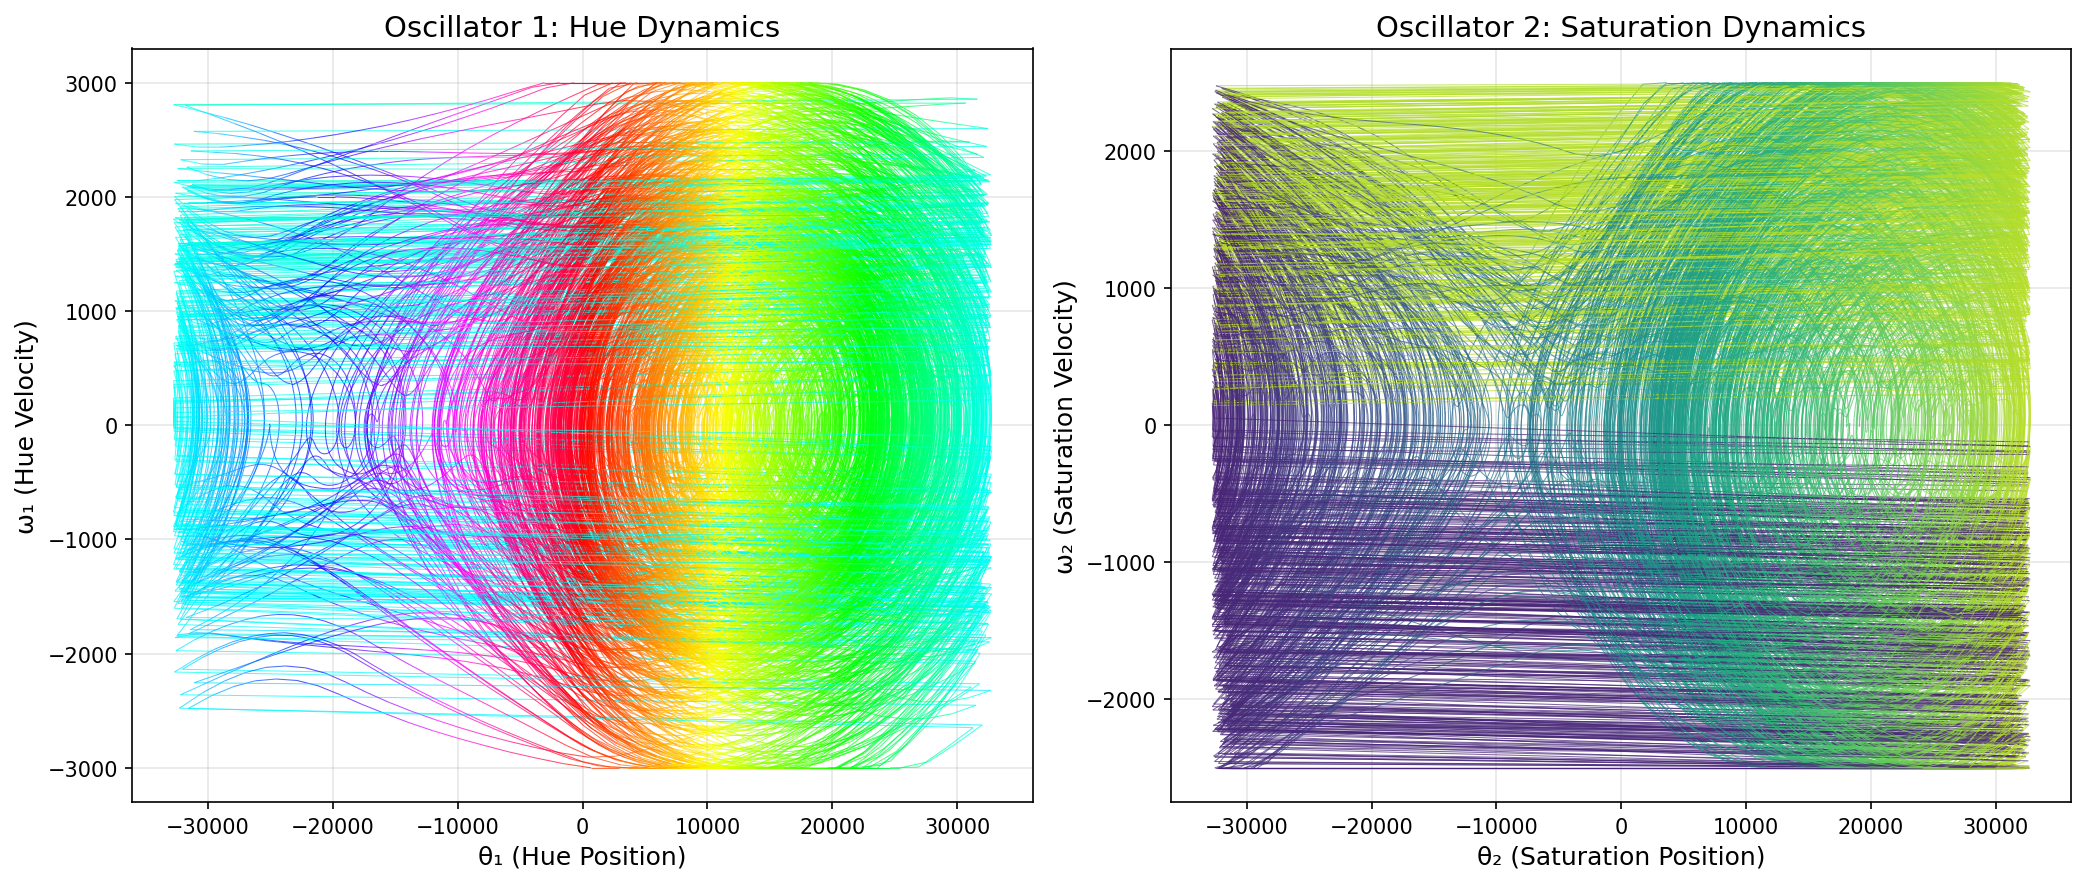
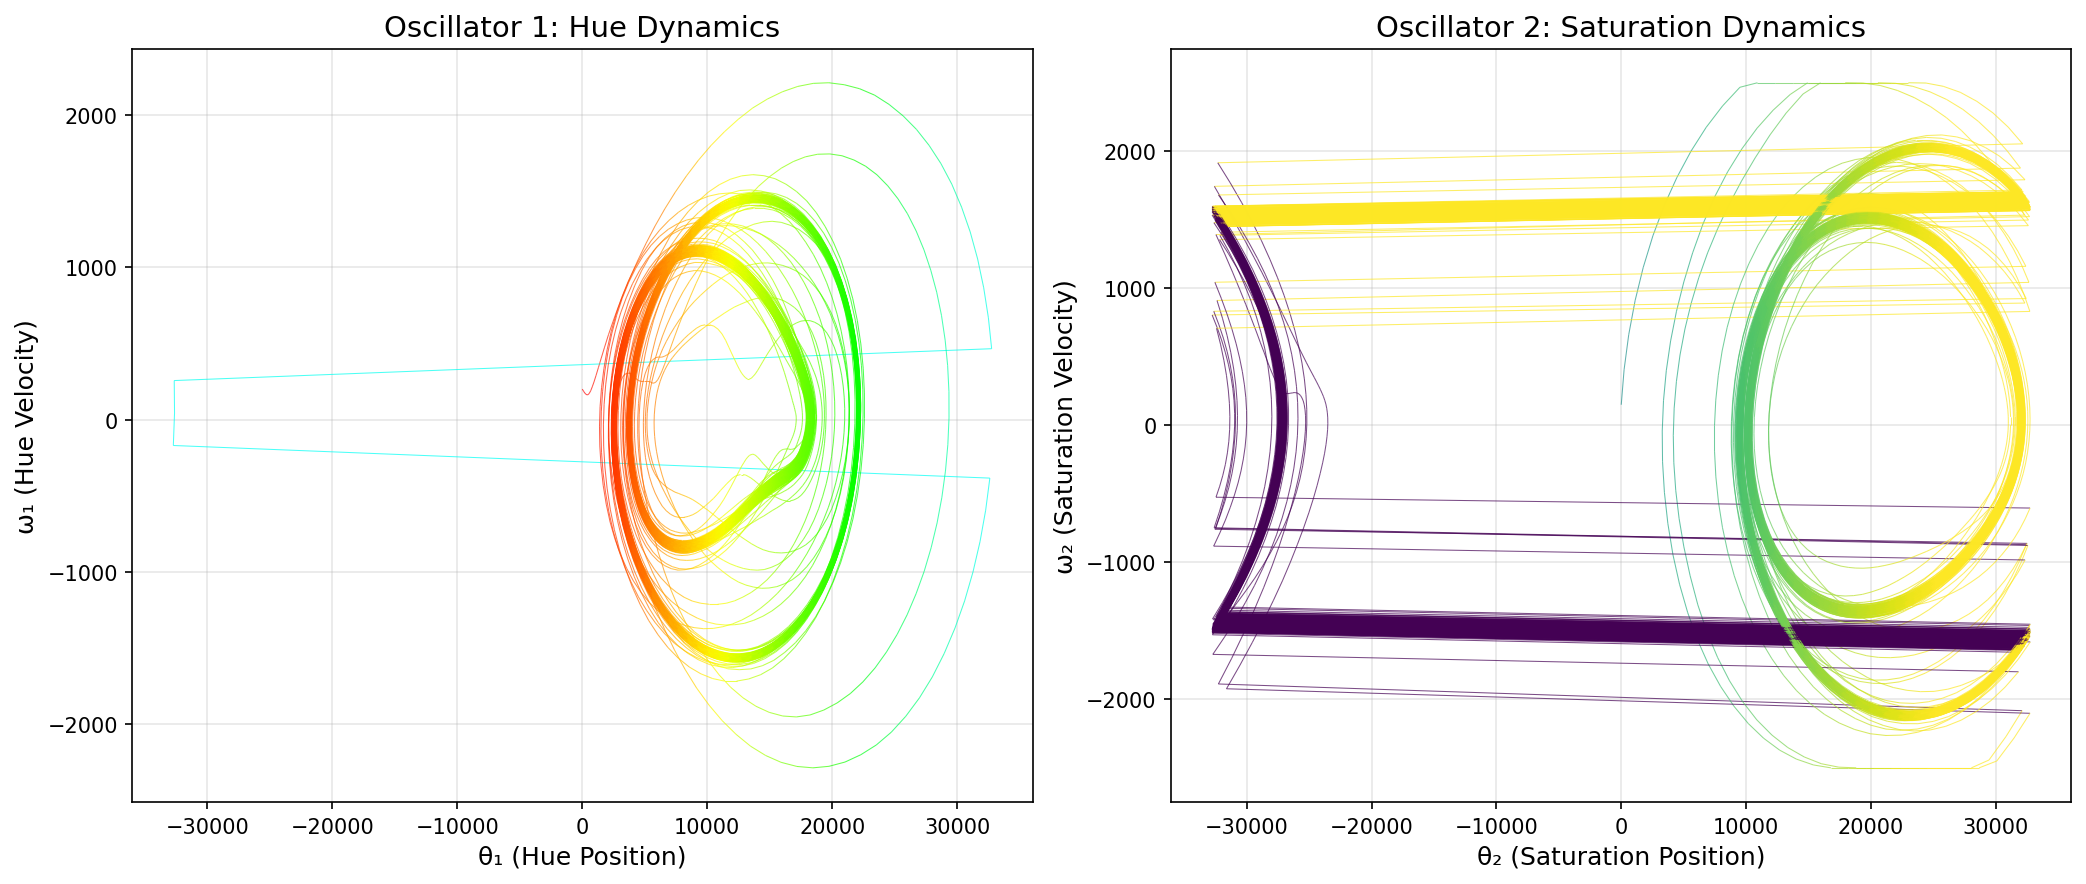
Tune chaos mode for better perceptual experience
Energy parameter tuning:
- Scale range narrowed to 6-11 (was 4-19) to avoid too-slow boring
  oscillations and too-fast white blur
- Drive amplitude narrowed to 40-56 (was 32-63) for consistent dynamics

Saturation mapping:
- Added sqrt-like expansion to spend more time at vivid saturated
  colors and less time near white
- Range expanded to 40-240 (was 60-220)

3H adjustment visual feedback:
- Brightness now shows energy level during adjustment (dim=slow, bright=fast)
- Brief blink on wrap-around (255->0 or 0->255)
- Original brightness restored on release

Updated simulation and documentation to match firmware changes.

diff --git a/hw/hank/emisar-d4k-3ch/hwdef.c b/hw/hank/emisar-d4k-3ch/hwdef.c
@@ -28,6 +28,7 @@ bool gradual_tick_led34b_blend(uint8_t gt);
 bool gradual_tick_hsv(uint8_t gt);
 bool gradual_tick_auto3(uint8_t gt);
 bool gradual_tick_chaos(uint8_t gt);
+uint8_t chaos_3h(Event event, uint16_t arg);
 
 
 Channel channels[] = {
@@ -82,7 +83,7 @@ Channel channels[] = {
 // HSV and chaos modes need different 3H handlers
 StatePtr channel_3H_modes[NUM_CHANNEL_MODES] = {
     NULL, NULL, NULL, NULL,
-    NULL, NULL, circular_tint_3h, NULL, circular_tint_3h,  // chaos uses same 3H handler as HSV
+    NULL, NULL, circular_tint_3h, NULL, chaos_3h,
 };
 
 void set_level_zero() {
@@ -387,8 +388,10 @@ static uint8_t chaos_frame = 0;
 // Physics update for coupled chaotic pendulum
 static void chaos_update(void) {
     // Get energy from user config (0-255)
+    // Map to useful range: avoid too-slow (boring) and too-fast (just white)
     uint8_t energy = cfg.channel_mode_args[channel_mode];
-    int16_t scale = 4 + (energy >> 4);  // speed scale: 4-19
+    // scale: 6-12 (was 4-19) - narrower range for perceptually useful speeds
+    int16_t scale = 6 + ((energy * 6) >> 8);  // 6 + 0..5 = 6..11
 
     // Use triangle wave as sinusoidal approximation
     int8_t wave1 = signed_wave((uint8_t)(chaos_theta1 >> 8));
@@ -399,7 +402,8 @@ static void chaos_update(void) {
     // This creates a driven double pendulum which exhibits true chaos
     chaos_frame++;
     int8_t drive = signed_wave(chaos_frame * 3);  // slow driving frequency
-    int16_t drive_force = (drive * (int16_t)(32 + (energy >> 3))) >> 7;
+    // drive amplitude: 40-56 (was 32-63) - narrower for better behavior
+    int16_t drive_force = (drive * (int16_t)(40 + (energy >> 4))) >> 7;
 
     // Coupled pendulum acceleration with driving
     int16_t acc1 = ((-20 * wave1) >> 4) + ((16 * wave_diff) >> 4) + drive_force;
@@ -429,11 +433,17 @@ void set_level_chaos(uint8_t level) {
     // Map theta1 to hue (full 0-255 range)
     uint8_t hue = (uint8_t)(chaos_theta1 >> 8);
 
-    // Map theta2 to saturation (centered at 140, range 60-220)
-    // This keeps colors "white-ish" but with colored tints
-    int16_t sat = 140 + (int8_t)(chaos_theta2 >> 9);
-    if (sat < 60) sat = 60;
-    if (sat > 220) sat = 220;
+    // Map theta2 to saturation with sqrt-like expansion
+    // This spends less time near white (center) and more at saturated colors
+    int8_t sat_raw = (int8_t)(chaos_theta2 >> 9);  // -128 to +127
+    // Sqrt-like expansion: small values get pushed away from zero
+    // Use (sign * sqrt(abs)) approximation via: sign * (128 - (128-abs)^2/128)
+    uint8_t sat_abs = sat_raw < 0 ? -sat_raw : sat_raw;
+    uint8_t inv = 128 - sat_abs;
+    uint8_t sat_expanded = 128 - ((inv * inv) >> 7);  // sqrt-ish curve
+    int16_t sat = 140 + (sat_raw < 0 ? -sat_expanded : sat_expanded);
+    if (sat < 40) sat = 40;    // allow more saturated colors
+    if (sat > 240) sat = 240;
 
     // Brightness from ramp level
     PWM_DATATYPE val = PWM_GET(pwm1_levels, level);
@@ -449,9 +459,14 @@ bool gradual_tick_chaos(uint8_t gt) {
 
     // Compute target color
     uint8_t hue = (uint8_t)(chaos_theta1 >> 8);
-    int16_t sat = 140 + (int8_t)(chaos_theta2 >> 9);
-    if (sat < 60) sat = 60;
-    if (sat > 220) sat = 220;
+    // Sqrt-like saturation expansion (same as set_level_chaos)
+    int8_t sat_raw = (int8_t)(chaos_theta2 >> 9);
+    uint8_t sat_abs = sat_raw < 0 ? -sat_raw : sat_raw;
+    uint8_t inv = 128 - sat_abs;
+    uint8_t sat_expanded = 128 - ((inv * inv) >> 7);
+    int16_t sat = 140 + (sat_raw < 0 ? -sat_expanded : sat_expanded);
+    if (sat < 40) sat = 40;
+    if (sat > 240) sat = 240;
 
     PWM_DATATYPE val = PWM_GET(pwm1_levels, gt);
     RGB_t color = hsv2rgb(hue, (uint8_t)sat, val);
@@ -461,5 +476,52 @@ bool gradual_tick_chaos(uint8_t gt) {
 
     // Always return false to keep animation running continuously
     return false;
+}
+
+///// 3H handler for chaos mode energy adjustment /////
+// Shows brightness proportional to energy during hold, blinks on wrap
+void save_config();  // forward declaration
+uint8_t chaos_3h(Event event, uint16_t arg) {
+    static int8_t direction = 1;
+    static uint8_t active = 0;
+    static uint8_t saved_level = 0;
+    uint8_t energy = cfg.channel_mode_args[channel_mode];
+
+    // click, click, hold: adjust energy with visual feedback
+    if (event == EV_click3_hold) {
+        // reset at beginning of movement
+        if (! arg) {
+            active = 1;
+            saved_level = actual_level;  // remember brightness to restore later
+        }
+        if (! active) return EVENT_NOT_HANDLED;
+
+        uint8_t old_energy = energy;
+        energy += direction;
+        cfg.channel_mode_args[channel_mode] = energy;
+
+        // detect wrap-around and blink
+        if ((old_energy == 255 && energy == 0) || (old_energy == 0 && energy == 255)) {
+            set_level(0);
+            delay_4ms(8);  // brief off
+        }
+
+        // show brightness proportional to energy (min 1 to keep light on)
+        uint8_t display_level = 1 + (energy * (uint16_t)(MAX_LEVEL - 1)) / 255;
+        set_level(display_level);
+
+        return EVENT_HANDLED;
+    }
+
+    // click, click, hold, release: restore brightness and save
+    else if (event == EV_click3_hold_release) {
+        active = 0;
+        direction = -direction;  // reverse for next time
+        save_config();
+        set_level(saved_level);  // restore original brightness
+        return EVENT_HANDLED;
+    }
+
+    return EVENT_NOT_HANDLED;
 }
 

diff --git a/tools/chaos_simulation.py b/tools/chaos_simulation.py
@@ -48,8 +48,8 @@ def chaos_update(state, energy=128):
     theta2 = state['theta2']
     omega2 = state['omega2']
 
-    # Speed scale: 4-19 based on energy
-    scale = 4 + (energy >> 4)
+    # Speed scale: 6-11 based on energy (narrower range for perceptually useful speeds)
+    scale = 6 + ((energy * 6) >> 8)  # 6 + 0..5 = 6..11
 
     # Use triangle wave as sinusoidal approximation
     wave1 = signed_wave((theta1 >> 8) & 0xFF)
@@ -60,7 +60,8 @@ def chaos_update(state, energy=128):
     # This creates a driven double pendulum which exhibits true chaos
     _chaos_frame = (_chaos_frame + 1) & 0xFF
     drive = signed_wave((_chaos_frame * 3) & 0xFF)
-    drive_force = (drive * (32 + (energy >> 3))) >> 7
+    # Drive amplitude: 40-56 (narrower range for better behavior)
+    drive_force = (drive * (40 + (energy >> 4))) >> 7
 
     # Coupled pendulum acceleration with driving
     acc1 = ((-20 * wave1) >> 4) + ((16 * wave_diff) >> 4) + drive_force
@@ -94,10 +95,14 @@ def state_to_color(state):
     # Hue from theta1 (full 0-255 range)
     hue = (state['theta1'] >> 8) & 0xFF
 
-    # Saturation from theta2 (centered at 140, range 60-220)
-    sat_offset = ((state['theta2'] >> 9) + 128) % 256 - 128  # signed byte
-    sat = 140 + sat_offset
-    sat = max(60, min(220, sat))
+    # Saturation from theta2 with sqrt-like expansion
+    # This spends less time near white (center) and more at saturated colors
+    sat_raw = ((state['theta2'] >> 9) + 128) % 256 - 128  # signed byte, -128 to +127
+    sat_abs = abs(sat_raw)
+    inv = 128 - sat_abs
+    sat_expanded = 128 - ((inv * inv) >> 7)  # sqrt-ish curve
+    sat = 140 + (sat_expanded if sat_raw >= 0 else -sat_expanded)
+    sat = max(40, min(240, sat))
 
     return hue, sat
 
@@ -208,11 +213,11 @@ def plot_color_trajectory(history, filename):
 
     # Create 2D histogram for density
     h_bins = np.linspace(0, 255, 64)
-    s_bins = np.linspace(60, 220, 40)
+    s_bins = np.linspace(40, 240, 50)
     H, xedges, yedges = np.histogram2d(history['hue'], history['sat'], bins=[h_bins, s_bins])
 
     # Plot as heatmap
-    extent = [0, 255, 60, 220]
+    extent = [0, 255, 40, 240]
     im = ax2.imshow(H.T, origin='lower', extent=extent, aspect='auto', cmap='hot')
     plt.colorbar(im, ax=ax2, label='Visit Frequency')
 
@@ -220,7 +225,7 @@ def plot_color_trajectory(history, filename):
     ax2.axhline(y=140, color='white', linestyle='--', linewidth=1, alpha=0.7, label='White center (sat=140)')
 
     ax2.set_xlabel('Hue (0-255)', fontsize=12)
-    ax2.set_ylabel('Saturation (60-220)', fontsize=12)
+    ax2.set_ylabel('Saturation (40-240)', fontsize=12)
     ax2.set_title('Color Space Density\n(brighter = more time spent)', fontsize=12)
     ax2.legend(loc='upper right')
 
@@ -261,9 +266,9 @@ def plot_time_series(history, filename, n_points=2000):
     ax3 = axes[2]
     ax3.plot(t, history['sat'][:n_points], 'purple', linewidth=0.5)
     ax3.axhline(y=140, color='gray', linestyle='--', linewidth=1, alpha=0.7, label='White center')
-    ax3.fill_between(t, 60, 220, alpha=0.1, color='gray')
+    ax3.fill_between(t, 40, 240, alpha=0.1, color='gray')
     ax3.set_ylabel('Saturation', fontsize=12)
-    ax3.set_ylim(40, 240)
+    ax3.set_ylim(20, 260)
     ax3.grid(True, alpha=0.3)
     ax3.legend(loc='upper right')
 
@@ -378,7 +383,8 @@ def plot_coupling_diagram(filename):
     # Equations (positioned lower with more space)
     eq_text = """Driven Coupled Pendulum Equations:
 
-drive_force = wave(frame×3) · (32 + energy/8) / 128
+drive_force = wave(frame×3) · (40 + energy/16) / 128
+scale = 6 + energy×6/256    (range: 6-11)
 
 acc₁ = -20·wave(θ₁)/16 + 16·wave(θ₂-θ₁)/16 + drive_force
 acc₂ = -16·wave(θ₂)/16 - 16·wave(θ₂-θ₁)/16

diff --git a/docs/chaotic-pendulum-science.md b/docs/chaotic-pendulum-science.md
@@ -41,7 +41,7 @@ The driven coupled pendulum equations, adapted for integer arithmetic:
 
 ```
 drive = wave(frame * 3)
-drive_force = drive · (32 + energy/8) / 128
+drive_force = drive · (40 + energy/16) / 128
 
 acc₁ = -20·wave(θ₁)/16 + 16·wave(θ₂-θ₁)/16 + drive_force
 acc₂ = -16·wave(θ₂)/16 - 16·wave(θ₂-θ₁)/16
@@ -55,8 +55,8 @@ acc₂ = -16·wave(θ₂)/16 - 16·wave(θ₂-θ₁)/16
 
 Where:
 - `wave()` is a triangle wave approximating sine (using existing firmware function)
-- `scale = 4 + energy/16` provides user-adjustable speed (4-19)
-- `drive_force` is a periodic driving term that sustains oscillations
+- `scale = 6 + energy×6/256` provides user-adjustable speed (6-11, tuned for perceptual range)
+- `drive_force` is a periodic driving term that sustains oscillations (amplitude 40-56)
 - The `-ω/512` term provides very light damping to prevent runaway
 - The coupling term `wave(θ₂-θ₁)` creates energy transfer between oscillators
 
@@ -103,15 +103,29 @@ The chaos maps to colors via HSV:
 ![Color Trajectory](images/chaos-color-trajectory.png)
 
 **Left (polar plot)**: Angle = hue, radius = saturation. The trajectory
-shows how colors roam through the space, with higher density near the
-center (white-ish colors).
+shows how colors roam through the space.
 
 **Right (heatmap)**: Density of visits to different hue/saturation
 combinations. Brighter areas indicate more time spent at those colors.
 
-The white dashed line at saturation=140 marks the center point. The
-algorithm is tuned to spend most time near this line while making
-occasional excursions to more saturated colors.
+The white dashed line at saturation=140 marks the nominal center point.
+
+### Saturation Mapping: Square Root Expansion
+
+To spend more time at vivid, saturated colors rather than near white,
+the raw θ₂ oscillator value undergoes a **square root-like expansion**:
+
+```
+sat_raw = θ₂ >> 9                    // -128 to +127
+sat_abs = |sat_raw|
+inv = 128 - sat_abs
+sat_expanded = 128 - (inv²) / 128    // sqrt-ish curve
+sat = 140 + sign(sat_raw) × sat_expanded
+```
+
+This transformation pushes small values (near white) outward toward
+the saturated extremes. The result: the animation dwells longer on
+vivid colors and passes quickly through the white region.
 
 ## Time Evolution
 
@@ -147,6 +161,26 @@ fills more rapidly and transitions happen quickly.
 The energy parameter scales the position update rate without changing
 the fundamental dynamics - like adjusting the playback speed of a
 chaotic system.
+
+### Perceptual Tuning
+
+The energy-to-speed mapping was carefully tuned for the perceptually
+useful range:
+
+- **Scale range 6-11** (not 4-19): Very low speeds looked static and
+  boring, while very high speeds blurred into white
+- **Drive amplitude 40-56** (not 32-63): Narrower range maintains
+  interesting dynamics across all energy settings
+
+### Visual Feedback During Adjustment
+
+When adjusting energy via 3H:
+- **Brightness shows energy level**: Dim = slow, bright = fast
+- **Blink on wrap-around**: Brief off when value wraps 255→0 or 0→255
+- **Restore on release**: Original brightness returns when released
+
+This lets users see exactly where they are in the energy range without
+needing to guess based on animation speed alone.
 
 ## RGB Channel Output
 
@@ -184,12 +218,17 @@ at 8MHz.
 
 ### Continuous Animation
 
-The animation runs via `gradual_tick_chaos()`, which is called
-continuously during thermal regulation. This ensures:
+The animation runs via a hook in the main `EV_tick` handler that calls
+`set_level(actual_level)` on every frame when chaos mode is active.
+This ensures:
 
 1. Animation continues even when brightness is static
 2. Smooth transitions during thermal stepdown
 3. No visible stuttering or frame drops
+
+The implementation required adding `USE_CHAOS_MODE` to enable this
+tick-driven animation, as standard channel modes only update when
+brightness changes.
 
 ## Comparison to True Double Pendulum
 
